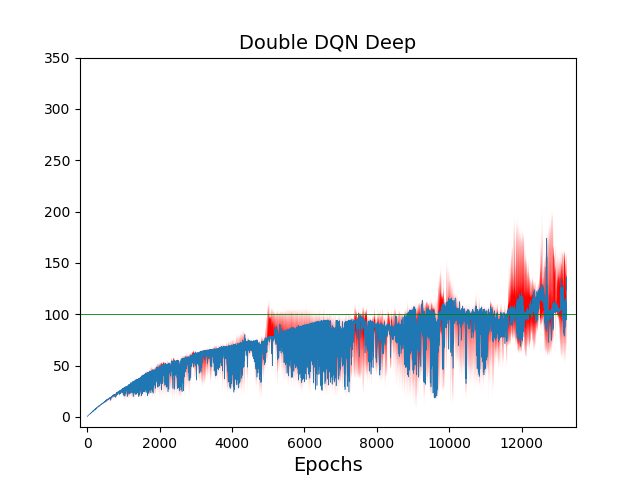
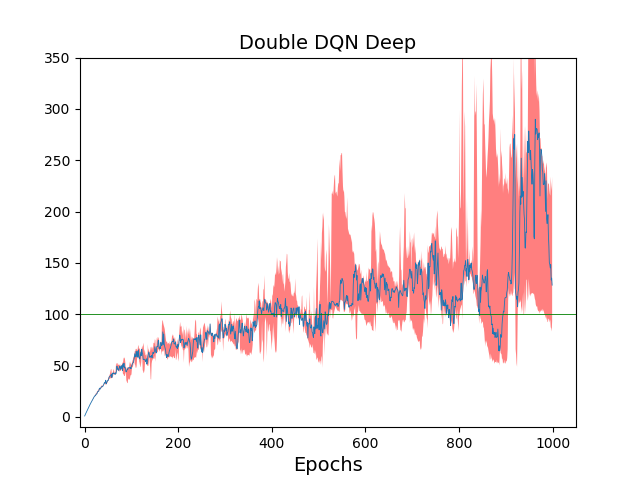
Fixes from review

diff --git a/sections/background.tex b/sections/background.tex
@@ -6,7 +6,7 @@ Markov Decision Process (MDP) formalism. A MDP is a tupla $\langle \mathcal{S},
 \mathcal{A}, \mathcal{P}, \mathcal{R}, \gamma \rangle$ where $\mathcal{S}$ is
 the set of states, $\mathcal{A}$ is the set of actions, $\mathcal{P}$ is the 
 state transition probability, $\mathcal{R}$ is the reward function and 
-$\gamma \in [0,1]$ is the discount factor determining the agent's horizon. A low $\gamma$ value means an agent that prefer the present rewards while an high $\gamma$ value mean an agent that prefer the future reward.
+$\gamma \in [0,1]$ is the discount factor determining the agent's horizon. A low $\gamma$ value means an agent that prefer the present reward while an high $\gamma$ value mean an agent that prefer the future reward.
 
 The main goal of an agent in RL is to interact with the environment maximizing the future rewards. In order to do this it estimates the action value function $Q$ that computes how much expected return comes from a state $s$ given an action $a$: $Q^*(s, a) = \max_\pi E[ G_t | s_t = s, a_t = a, \pi]$ where $\pi$ is a policy, a function that maps states to actions and $G_t = R_t + \gamma~R_{t+1} + \gamma^2~R_{t+2} + \dots$ is the discounted return.
 
@@ -16,13 +16,13 @@ Unluckily in a real context the MDP is unknown or its representation is too big
 
 \subsection{Q-learning}
 
-One method that tackles the previous issue is the \textbf{Q-learning} algorithm: a form of \textit{temporal difference learning} \cite{Sutton:1998:IRL:551283}
+One method that tackles the previous issue is the \textbf{Q-learning} algorithm: a form of \textit{temporal difference learning} \cite{Sutton:1998:IRL:551283}.
 
-Q-learning is defined as a \textit{model-free} \textit{off-policy} method \cite{Watkins1992}. \textit{Off-policy} means that the Q-learning learns using two policy. The first one is the target policy $\pi$, that follows the \textit{greedy} strategy $a = \max_a Q(s, a; \theta)$, that is selecting always the action that will return the maximum reward.
-The second one is the \textit{behavior policy} $\mu$ that ensures an exploration of the states space, typically an \textit{$\epsilon$-greedy} strategy. \textit{$\epsilon$-greedy} with probability $1 - \epsilon$ is a greedy strategy while with probability $\epsilon$ it selects a random action.
+Q-learning is defined as a \textit{model-free} \textit{off-policy} method \cite{Watkins1992}. \textit{Off-policy} means that the Q-learning learns using two policies. The first one is the target policy $\pi$, that follows the \textit{greedy} strategy $a = \max_a Q(s, a; \theta)$, that means selecting always the action that will return the maximum reward.
+The second one is the \textit{behavior policy} $\mu$ that ensures an exploration of the states space, typically an \textit{$\epsilon$-greedy} strategy. \textit{$\epsilon$-greedy} with probability $1 - \epsilon$ is a \textit{greedy} strategy while with probability $\epsilon$ it selects a random action.
 
-The Q-learning first initialize arbitrarily the $Q(s,a)$ except for the terminal state where $Q$ is initialized to 0.
-The agent from the initial state $S_0$ starts the iteration identified by a step $t$. Inside this loop the agent choose an action $A_t$ from $S_t$ (current state) using the \textit{behavior policy}. Then it takes the action $A_t$ and observe from the environment the immediate reward $R_{t+1}$ and the resulting state $S_{t+1}$ with which it estimates the action-value function through the following update rule:
+The Q-learning first initializes arbitrarily the $Q(s,a)$ except for the terminal state where $Q$ is initialized to 0.
+The agent from the initial state $S_0$ starts the iteration identified by a step $t$. Inside this loop the agent choose an action $A_t$ from $S_t$ (current state) using the \textit{behavior policy}. Then it takes the action $A_t$ and observes from the environment the immediate reward $R_{t+1}$ and the resulting state $S_{t+1}$ with which it estimates the action-value function through the following update rule:
 \begin{equation}
 	Q(S_t, A_t) = Q(S_t, A_t) + \alpha (Y^Q_t - Q(S_t, A_t))
 \end{equation}
@@ -59,18 +59,18 @@ In the \textit{Playing Atari with Deep Reinforcement Learning}~\cite{DBLP:journa
 
 DQN is a multi-layered Convolution Neural Network $Q(s, \cdotp; \theta)$ where $\theta$ are the parameters, that approximates the action-value function $Q$. It takes a 84x84x4 of the last four gray-scale frames as input representing the state $s$, and it outputs one predicted $Q$-value for each valid action.  
 %L'ARCHITETTURA % 
-The first convolutional layer used 32 filters of size 8 and stride 4, the second layer has 64 filter of size 4 and stride 2, the final convolutional layer has 64 filters of size 3 and stride 1. Follow a fully-connected layer of 512 units. All layers are separated by Rectifier Linear Units (ReLU). Finally a fully connected linear layer outputs the Q-values vector of $|\mathcal{A}|$ dimension, the cardinality of the action space.
+The first convolutional layer used 32 filters of size 8 and stride 4, the second layer has 64 filters of size 4 and stride 2, the final convolutional layer has 64 filters of size 3 and stride 1. Follow a fully-connected layer of 512 units. All layers are separated by Rectifier Linear Units (ReLU). Finally a fully connected linear layer outputs the Q-values vector of $|\mathcal{A}|$ dimension, the cardinality of the action space.
 
 As the Q-learning, DQN algorithm applies \textit{greedy} as target policy and \textit{$\epsilon$-greedy} as behaviour policy. Initially the parameter $\epsilon$ is set to 1 and it linearly decreases at each step to the minimum 0.1. The main hyperparameters are showed in Table~\ref{fig:dqn-hyperparams}.
 
 %(What were the general issues?)
 %(How do they solve them?)
-One important issue faced is that the agent has to learn from noisy data highly correlate. In order to break these correlations they successfully applied the \textit{experience replay} technique~\cite{Lin:1992:RLR:168871}. It consists in building a data-set of samples, the \textit{replay memory} ($D$), in which at each step the algorithm stores a new sample $e_t = (s_t, a_t, r_{t+1}, s_{t+1})$ overwriting the most old one. Next the algorithm applies the Q-learning update on samples of experience $(S_t, A_t, R_{t+1}, S_{t+1}) \sim U(D)$ taken uniformly at random from this memory. The Q-learning update at step $t$ uses the following loss:
+One important issue faced is that the agent has to learn from noisy data highly correlated. In order to break these correlations they successfully applied the \textit{experience replay} technique~\cite{Lin:1992:RLR:168871}. It consists in building a data-set of samples, the \textit{replay memory} ($D$), in which at each step the algorithm stores a new sample $e_t = (s_t, a_t, r_{t+1}, s_{t+1})$ overwriting the most old one. Next the algorithm applies the Q-learning update on samples of experience $(S_t, A_t, R_{t+1}, S_{t+1}) \sim U(D)$ taken uniformly at random from this memory. The Q-learning update at step $t$ uses the following loss:
 \begin{equation}
 	L_t(\theta_t) = E_{e_t \sim U(D)} % 
 		\Big[ \Big( Y^{DQN_1}_t - Q(S_t, A_t;\theta_t) \Big)^2 \Big]
 \end{equation}
-With the target define as:
+With the target defined as:
 \begin{equation}
 Y^{DQN_1}_t \equiv R_{t+1} + \gamma \max_{a} Q(S_{t+1}, a; \theta_t)
 \end{equation}
@@ -98,16 +98,16 @@ Y^{DQN_2}_t \equiv R_{t+1} + \gamma \max_{a} Q(S_{t+1}, a; \theta_t')
 \subsection{Double Q-learning}
 \label{subsec:DoubleQlearning}
 
-It is known that Q-learning overestimates the action-value function~\cite{NIPS2010_3964}. This is caused by the approximation of the maximal estimator $\max_a Q(S_{t+1}, a)$ that is a bias estimator of $max_a E \{ Q(S_{t+1}, a) \}$, this bias is cumulative at each update. In order to remove this effect the \textbf{Double Q-learning} algorithm was proposed~\cite{NIPS2010_3964}.
+It is known that Q-learning overestimates the action-value function~\cite{NIPS2010_3964}. This is caused by the approximation of the maximal estimator $\max_a Q(S_{t+1}, a)$ that is a bias estimator of $max_a E \{ Q(S_{t+1}, a) \}$. This bias is cumulative at each update. In order to remove this effect the \textbf{Double Q-learning} algorithm was proposed~\cite{NIPS2010_3964}.
 
-The main idea of Double Q-learning is to use a double estimator: keeping two action-value function $Q^A$ and $Q^B$. At each step only one of the two functions is updated and in the update instead of using the $Q^A(S{t+1}, a^*) = \max_a Q(S_{t+1}, a)$ where $a^* = \max_a Q^A(S_{t+1}, a)$ it is used $Q^B(S_{t+1}, a^*)$.
+The main idea of Double Q-learning is to use a double estimator: keeping two action-value function $Q^A$ and $Q^B$. At each step only one of the two functions is updated: instead of using $Q^A(S{t+1}, a^*) = \max_a Q(S_{t+1}, a)$ where $a^* = \max_a Q^A(S_{t+1}, a)$ in the update, it is used $Q^B(S_{t+1}, a^*)$.
 Van Hasselt (2010) proved mathematically and in small environments that the Double Q-learning is more accurate than Q-learning and sometimes underestimate.
 \
 \subsection{Double Deep Q Network Algorithm}
 
 % What did the authors demontrate?
 %(What were the general issues?)
-\textit{Deep Reinforcement Learning with Double Q-learning}~\cite{Hasselt:2016:DRL:3016100.3016191} showed that DQN algorithm suffers from overestimations impacting negatively on the quality of the policy learned. They demonstrate that estimation errors of any kind can induce an upward bias driving the estimate up and away from the true optimal value.
+\textit{Deep Reinforcement Learning with Double Q-learning}~\cite{Hasselt:2016:DRL:3016100.3016191} showed that DQN algorithm suffers from overestimations impacting negatively on the quality of the policy learned. They demonstrate that any kind of estimation errors can induce an upward bias driving the estimate up and away from the true optimal value.
 
 % How did they enhanced the algorithm?
 In order to reduce this overestimation \citeauthor{Hasselt:2016:DRL:3016100.3016191} \shortcite{Hasselt:2016:DRL:3016100.3016191} proposed the \textbf{Double Deep Q Network} (\textbf{DDQN}), a DQN adaptation that implements the idea of the Double Q-learning. The only change from the previous DQN~\cite{Mnih2015} was the target $Y_t^{DQN_2}$ replaced with:

diff --git a/sections/results.tex b/sections/results.tex
@@ -4,10 +4,12 @@
 
 % Arguments:
 
-Figure~\ref{fig:q-values} shows the different performances from the 4 configuration. In order to reduce the noise of the Q-value estimates, as the cited papers did, during the training \auth~take the averages of the Q-values from \numepoch~steps, defined as \textit{epoch}. More epochs computed by a configuration implies more steps per episode and then more reward in general. Hence the \textit{deep} configurations played better than the \textit{shallow}. More details in the evaluation subsection.
+Figure~\ref{fig:q-values} shows the different performances from the 4 configurations. In order to reduce the noise of the Q-value estimates, as the cited papers did, during the training \auth~take the averages of the Q-values from \numepoch~steps, defined as \textit{epoch}. %More epochs computed by a configuration implies more steps per episode and then more reward in general. Hence the \textit{deep} configurations played better than the \textit{shallow}. More details in the evaluation subsection.
 
-A more interesting viewpoint is the overestimation issue. If the reward is nonzero and $\gamma < 1$ as in the \textit{CartPole} environment the return $G_t$ is $\frac{1}{1 - \gamma}$ \cite{Sutton:1998:IRL:551283}. Hence in our case the return with $\gamma = 0.99$ is $100$ then the DQN has to converge to that value.
-Figure~\ref{fig:q-values} shows that the trends of all the configuration is to converge to 100. As described by \citeauthor{Hasselt:2016:DRL:3016100.3016191} \shortcite{Hasselt:2016:DRL:3016100.3016191} the Double Q-learning reduces the overestimation, in particular for the \textit{Double DQN deep} configuration, the \textit{DQN deep} suffers definitely of overestimation. For \textit{DQN shallow} configurations instead the differences are small, maybe the differences could start in later epochs.
+An interesting viewpoint is the overestimation issue. If the reward is nonzero and $\gamma < 1$ as in the \textit{CartPole} environment the return $G_t$ is $\frac{1}{1 - \gamma}$ \cite{Sutton:1998:IRL:551283}. Hence in \authpp~case the return with $\gamma = 0.99$ is $100$ then the DQN has to converge to that value.
+Figure~\ref{fig:q-values} shows that the \textit{shallow} configurations converge to 100. Instead the \textit{deep} configurations after about 400 epochs started to oscillate and to overestimate the true return. \Auth~think the \textit{deep} configurations failed to generalize (overfitting).
+
+In spite of the expectation the Double Q-learning did not reduce significantly the overestimation, the differences between the \textit{shallow} configurations are minimal. Both the \textit{deep} configurations suffer of overestimation, in particular in the last epochs.
 
 \begin{figure*}[]
 	\centering
@@ -20,7 +22,8 @@ Figure~\ref{fig:q-values} shows that the trends of all the configuration is to c
 	%{\includegraphics[width=.45\textwidth]{Cascata}} \quad
 	%\subfloat[][\emph{Salita e discesa}.]
 	%{\includegraphics[width=.45\textwidth]{SalitaDiscesa}}
-	\caption{The plots shows the Q-value estimates performance for each configuration running for 3600 episodes. Each episode performs every step depending on the good or bad interaction of the agent. This means that some agent finished in less steps. Each point on the blue lines is the median Q-value per epoch (the average Q-value computed every \numepoch~steps) of 3 executions with different seed. The red area shows the maximum and minimum Q-value per epoch of 3 executions with different seed.}
+	\caption{The plots shows the Q-value estimates performance for each configuration running for about 1 Million of steps. %Each episode performs every step depending on the good or bad interaction of the agent. This means that some agent finished in less steps.% 
+	Each point on the blue lines is the median Q-value per epoch (the average Q-value computed every \numepoch~steps) of 3 executions with different seed. The red area shows the maximum and minimum Q-value per epoch of 3 executions with different seed.}
 	\label{fig:q-values}
 \end{figure*}
 
@@ -28,16 +31,16 @@ Figure~\ref{fig:q-values} shows that the trends of all the configuration is to c
 \subsection{Evaluation}
 
 % Theses:
-The results of evaluation (Figure~\ref{fig:comparison}) of the model show that \textit{double} and \textit{deep} settings have the better results. The learning agents, after 1000 episodes are able to \textit{solve} the \textit{CartPole} problem. It is a good result considering that the algorithm hyperparameters were not tuned. Notice that \auth~consider the best model from 3 run with different seed. 
+The results of evaluation (Figure~\ref{fig:comparison}) of the model show that the \textit{double} configurations have better results in terms of number of episodes necessary to solve the \textit{CartPole} problem. The DDQN shallow and DDQN deep configurations obtained after 200 and 300 episodes are able to \textit{solve} the \textit{CartPole} problem. It is a good result considering that the algorithm hyperparameters were not tuned. Notice that \auth~consider the best model from 3 run with different seed. 
 
 \begin{figure}[t]
 	\centering
-	\includegraphics[width=0.48\textwidth]{res/Comparison}
+	\includegraphics[width=0.46\textwidth]{res/Comparison}
 	\caption{Number of episodes necessary to solve the \textit{CartPole} problem for each configuration. The value is selected from the best runs.}
 	\label{fig:comparison}
 \end{figure}
 
-In fact from the Table~\ref{tab:comparison_table} emerges that a different seed could imply a good or a bad learning process. The \textit{DQN shallow} configuration showed that for the best seed it needs 1300 episode in order to solve the problem while with the seed 52 it needs 2000 episode. This is caused from a great component of randomness in the DQN algorithm: the probability involves in \textit{$\epsilon$-greedy}, the random selection of mini-batches from the \textit{experience replay} dataset, the random initialization of the parameter of the Q network and the randomness in the environment.
+In fact from the Table~\ref{tab:comparison_table} emerges that a different seed could imply a good or a bad learning process. The \textit{DQN shallow} configuration showed that for the best seed it needs 400 episodes in order to solve the problem while with the seed 52 it needs 1700 episodes. Probably this is caused by a great component of randomness in the DQN algorithm: the probability involves in \textit{$\epsilon$-greedy}, the random selection of mini-batches from the \textit{experience replay} dataset, the random initialization of the parameter of the Q-network and the randomness in the environment.
 
 \begin{table}
 	\centering
@@ -45,21 +48,21 @@ In fact from the Table~\ref{tab:comparison_table} emerges that a different seed 
 		\hline
 		\textbf{Configuration} & \textbf{Seed} & \textbf{Good models} & \textbf{Solved (Ep.)} \\
 		\hline
-			 & 32 & 10 / 35 & 1000 \\
-		DDQN & 42 & 6 / 35 & 1500 \\
-			 & 52 & 6 / 35 & 1000 \\
+			 & 32 & 13 / 83 & 300 \\
+		DDQN shallow & 16 & 83 / 83 & 600 \\
+			 & 52 & 16 / 83 & 300 \\
 		\hline
-		 		& 32 & 13 / 35 & 1000 \\
-		DDQN deep  & 42 & 10 / 35 & 1000 \\
-				  & 52 & 12 / 35 & 1200 \\
+		 		& 32 & 21 / 83 & 400 \\
+		DDQN deep  & 42 & 20 / 83 & 200 \\
+				  & 52 & 17 / 83 & 200 \\
 		\hline
-			& 32 & 5 / 35 & 1700 \\
-		DQN	& 42 & 3 / 35 & 1300 \\
-			& 52 & 5 / 35 & 2000 \\
+					& 32 & 26 / 83 & 400 \\
+		DQN	shallow & 42 & 18 / 83 & 1000 \\
+					& 52 & 16 / 83 & 1700 \\
 		\hline
-				 & 32 & 12 / 35 & 1000 \\
-		DQN deep & 42 & 11 / 35 & 1000 \\
-				 & 52 & 6 / 35 & 1300 \\
+				 & 32 & 20 / 83 & 500 \\
+		DQN deep & 42 & 21 / 83 & 1000 \\
+				 & 52 & 25 / 83 & 400 \\
 		\hline
 	\end{tabular}
 	\caption{Results from evaluation. For each configuration with a seed, a model every 100 episode was evaluated. Good models represent the number of models that solved the \textit{CartPole} problem. Solved column shows the number of episodes necessary for obtaining the first good model.}

diff --git a/sections/experiments.tex b/sections/experiments.tex
@@ -4,7 +4,7 @@
 \Authpp~testbed is done in the \textit{CartPole-v0} environment available in the Gym toolkit \cite{Gym}.
 In this toy problem a pole is attached by an un-actuated joint to a cart, which moves along a frictionless track. The pendulum starts upright, and the goal is to prevent it from falling over by increasing and reducing the cart's velocity. It was invented for having pseudo-standard benchmark problem from the field of control theory and artificial neural networks for designing and testing controllers on complex and unstable non-linear system.
 
-From documentation the problem is defined as \textit{solved} if the agent get average reward of 195.0 over 100 consecutive trials. \Auth~used this as a parameter for evaluating our trained models.
+From documentation the problem is defined as \textit{solved} if the agent get average reward of 195.0 over 100 consecutive trials. \Auth~used this as a parameter for evaluating the trained models.
  
 \subsubsection{States space}
 A state of the agent is described through a vector of 4 features: the  \textit{Cart Position}, \textit{Cart Velocity}, \textit{Pole Angle} and \textit{Pole Velocity At Tip} (which can be interpreted on how fast the pole is falling) .
@@ -23,13 +23,13 @@ The reward is 1 for every step taken, including the termination step. Since the 
 \subsection{Neural Network Architecture}
 
 After some preliminary tests \auth~end up with two different architectures for the Deep Q Network: the most simple consists of an input layer of 4 units, the state features, a single fully connected hidden layer of 64 units (\textit{DQN Shallow}) with ReLU as activation function and two units, the possible actions, for the output layer. The second one is the previous network but with an additional hidden layer of 32 units with ReLU as activation function before the output layer (\textit{DQN deep}). %The third configuration keeps the input and output layers of the first one, between them there are three fully connected hidden layers of 32, 16 and 8 units respectively \textit{(DQN more deep)}. 
-These architecture were created for comparing the difference between deep and shallow neural networks.
+These architectures were created for comparing the difference between deep and shallow neural networks.
 
 \subsection{General Settings}
 
-For the settings of the DQN \auth~started from the hyper-parameters used by \citeauthor{Hasselt:2016:DRL:3016100.3016191} \shortcite{Hasselt:2016:DRL:3016100.3016191}. Since the smaller complexity of the \textit{CartPole} environment and our limited hardware resources, \auth~set the \textit{experience replay} dataset size to 10000 instead of 1 Million and \auth~updated the target network parameters every 1000 steps ($\tau = 1000$). As loss function \auth~used \textit{Mean Squared Error} minimized using the RMSprop optimizer with mini-batches of sizes 32.
+For the settings of the DQN \auth~started from the hyper-parameters used by \citeauthor{Hasselt:2016:DRL:3016100.3016191} \shortcite{Hasselt:2016:DRL:3016100.3016191}. Since the smaller complexity of the \textit{CartPole} environment and \authpp~limited hardware resources, \auth~set the \textit{experience replay} dataset size to 10000 instead of 1 Million and \auth~set the update of the target network parameters every 1000 steps ($\tau = 1000$). As loss function \auth~used \textit{Mean Squared Error} minimized using the RMSprop optimizer with mini-batches of sizes 32.
 
-Each agent runs the training for a total of 3600 episodes using \textit{$\epsilon$-greedy} with $\epsilon$ initialized to 1 decreasing linearly for 10.000 steps and then fixed at 0.01 for all the next steps.
+Each agent runs the training for a total of 1024000 steps using \textit{$\epsilon$-greedy} with $\epsilon$ initialized to 1 decreasing linearly for 10000 steps and then fixed at 0.01 for all the next steps.
 
 \Auth~trained different agents with the DQN algorithm \cite{Mnih2015} and the Double DQN algorithm \cite{Hasselt:2016:DRL:3016100.3016191}.
 
@@ -58,15 +58,15 @@ Each agent runs the training for a total of 3600 episodes using \textit{$\epsilo
 
 \subsection{Configurations}
 
-\Auth~built 4 configuration that are all the combinations of neural network architectures and DQN algorithms, they are: \textit{DQN shallow} (also referred to as DQN), \textit{DQN deep}, \textit{Double DQN shallow} (DDQN) and \textit{Double DQN deep}. Each of them has set the hyper-parameters shown in the Table~\ref{tab:my-hyperparams}.
+\Auth~built 4 configurations that are all the combinations of neural network architectures and DQN algorithms, they are: \textit{DQN shallow} (also referred to as DQN), \textit{DQN deep}, \textit{Double DQN shallow} (DDQN) and \textit{Double DQN deep}. Each of them has set the hyper-parameters shown in the Table~\ref{tab:my-hyperparams}.
 
-Aware that more runs are required, especially in the reinforcement learning field \cite{DBLP:journals/corr/abs-1709-06560}, \auth~tested the configurations with 3 different seeds (32, 42 and 52) for randomness involve in the algorithm, for a total of 12 runs.
+Aware that more runs are required, especially in the reinforcement learning field \cite{DBLP:journals/corr/abs-1709-06560}, \auth~tested the configurations with 3 different seeds (32, 42 and 52), for randomness involved in the algorithm, for a total of 12 runs.
 
 % Comparing seed and stochasticity
 
 \subsection{Evaluation Settings}
 
-Every 100 episodes of an execution the algorithm saved a model of the neural network, since an execution run for 3600 episodes, the outcomes obtained are 35 models for each configuration. Every model is evaluated in an agent without Q-learning for 100 episodes. During the evaluation \auth~measured the average reward in the 100 episodes.
+An \textit{episode} is defined as the steps from initial state to terminal state. Every 100 episodes of an execution, the algorithm saved a model of the neural network, since an execution run for about 1 Milion steps, the resulting models for each configuration vary. Every model is evaluated in an agent without Q-learning for 100 episodes. During the evaluation \auth~measured the average reward in the 100 episodes.
 
 \subsection{Technologies}
 The code\footnote{DQN-in-CartPole GitHub repository: \url{https://github.com/EduBic/DQN-in-CartPole}} is written in Python 3, with the use of NumPy and Keras library on top of Tensorflow.

diff --git a/sections/intro.tex b/sections/intro.tex
@@ -2,14 +2,14 @@
 
 In the last decade Reinforcement Learning (RL) is attracting more and more interest of machine learning and artificial intelligence communities.
 
-The main objective of the RL research is developing agents which should be able to choose the actions maximizing the total reward given the current state of the environment in which it is located and nothing else.
+The main objective of the RL research is developing agents which should be able to choose the actions maximizing the total reward, given only the current state of the environment in which it is located.
 
-More recently, with the leveraging on the rapid growth in the amount of the annotated data and the great improvements in the strengths of graphics processor units, the research in Deep Learning (DL) has been emerged and led to very good performance on a variety of problems, such as visual recognition, speech recognition and natural language processing \cite{AdvancesCNN}.
+More recently, with the leveraging on the rapid growth in the amount of the annotated data and the great improvements in the strengths of graphics processor units, the research in Deep Learning (DL) has been emerged and led to very good performance on a variety of problems, such as Visual Recognition, Speech Recognition and Natural Language Processing \cite{AdvancesCNN}.
 
-Deep Learning in addition to Reinforcement Learning enabling to scale problems considered previously intractable. Some of the most amazing results have been obtained by Google’s DeepMind, who has trained agents capable to defeat Go champion, Le Sedol, in march 2016, four games to one, or able to achieve the performance of expert humans in playing numerous Atari video games learning directly from pixels. Also OpenAI obtained a great success with his bot that has beaten the world's top professionals at 1v1 matches of Dota 2 under standard tournament rules, after learning the rules of the game from scratch by self-play.
+Deep Learning in addition to Reinforcement Learning enables to scale problems considered previously intractable. Some of the most amazing results have been obtained by Google’s DeepMind that has trained agents capable to defeat Go champion, Le Sedol, in march 2016, four games to one, or able to achieve the performance of expert humans in playing numerous Atari video games learning directly from pixels. Also OpenAI obtained a great success with its bot that has beaten the world's top professionals at 1v1 matches of Dota 2 under standard tournament rules, after learning the rules of the game from scratch by self-play.
 
 In order to increase the community around RL OpenAI released Gym toolkit \cite{Gym}, a collection of test problems designed for testing and developing reinforcement learning algorithms, including 57 games of Atari 2600 and the MuJoCo physics engine, where simulated robot agents can be controlled by the position and velocity of each joint. 
 
 The goal of this work is firstly to understand the DQN algorithm issues and the solution adopted, secondly to implement the DQN algorithm comparing the first version with the Double DQN version. Following initially the experiments performed in Atari environment, specifically the Pong game. \Auth~soon clashed with computational and time limits due to the huge number of parameters of network and memory required. In short, for replicate the experiments cited \auth~would have required weeks of computation time and a GPU with more than 8 Gigabytes of memory. \Auth~have therefore chosen to analyze a relatively simpler problem: the \textit{CartPole}, provided by Gym.\\
 
-This paper is organized as follows: the Background section presents an overview of the deep reinforcement learning methods. The Experiments section introduces the environment and the task of the \textit{CartPole} problem while the Results Discussion section contains an analysis of the experiments results. In Future Work, \auth~propose some of the possible interesting changes on our experiments settings. Finally, the Conclusion containing our thoughts about Deep Reinforcement Learning after this exploration work.
+This paper is organized as follows: the Background section presents an overview of the deep reinforcement learning methods. The Experiments section introduces the environment and the task of the \textit{CartPole} problem while the Results Discussion section contains an analysis of the experiments results. In Future Work, \auth~propose some of the possible interesting changes on the experiments settings. Finally, the Conclusion containing \authpp~thoughts about Deep Reinforcement Learning after this exploration work.

diff --git a/sections/future.tex b/sections/future.tex
@@ -5,7 +5,7 @@
 
 The used environment of the \textit{CartPole} limits the steps to 200 for each episode. It might be interesting to perform the same experiments on the same environment with no step limits.
 
-\Auth~observed that several trained agents were able to successfully solving the task. Many of them get the maximum reward mostly pushing to one side the cart, unaware of the boundaries of the environment that are terminal states, that means less reward in the future. In a continuous environment this behaviour will leads to a bad episode encouraging the Q-learning to learn a smarter policy.
+\Auth~observed that several trained agents are able to successfully solving the task. Many of them get the maximum reward mostly pushing to one side the cart, unaware of the boundaries of the environment that are terminal states, that means less reward in the future. In a continuous environment this behaviour will leads to a bad episode encouraging the Q-learning to learn a smarter policy.
 
 \subsection{Reward function redesign}
 
@@ -13,4 +13,4 @@ Another interesting possible solution to limit the suicidal behaviour towards th
 
 \subsection{Longer Time Execution}
 
-\Authpp~tests is obviously limited. The cited references for DQN and Double DQN executed for a total of 200 Million of frames, that is 50 Million of steps, while the maximum reached by our tests was 896000. Increasing the number of episodes and therefore the number of steps could show better the behaviour of the Q-value in \textit{CartPole} environment.
+\Authpp~tests is obviously limited. The cited references for DQN and Double DQN executed for a total of 200 Million of frames, that is 50 Million of steps, while the maximum reached by \authpp~tests was 896000. Increasing the number of episodes and therefore the number of steps could show better the behaviour of the Q-value in \textit{CartPole} environment.

diff --git a/sections/conclusions.tex b/sections/conclusions.tex
@@ -3,6 +3,6 @@
 \Auth~have presented how Q-learning, and successively Double Q-learning was combined with Deep Neural Network creating the DQN algorithm. 
 An algorithm that achieved state-of-the-art performance in the \textit{Atari Emulator Environment} and keeps improving with the contributes of deep reinforcement learning community~\cite{DBLP:journals/corr/abs-1710-02298}.
 
-\Auth~implemented the DQN algorithm and \auth~tried to explore its potential in the toy control environment \textit{CartPole}. Without the need of tuning \auth~showed that DQN was able to solve the problem with discrete results. \Auth~shows also that the introduction of the Double DQN improve a little the performance and comparing to DQN algorithm reduce the overestimation as \citeauthor{Hasselt:2016:DRL:3016100.3016191} \shortcite{Hasselt:2016:DRL:3016100.3016191} demonstrated.
+\Auth~implemented the DQN algorithm and \auth~tried to explore its potential in the toy control environment \textit{CartPole}. Without the need of tuning \auth~showed that DQN was able to solve the problem with discrete results. \Auth~showed also that the introduction of the Double DQN improves a bit the performance and comparing to DQN algorithm reduce the overestimation as \citeauthor{Hasselt:2016:DRL:3016100.3016191} \shortcite{Hasselt:2016:DRL:3016100.3016191} demonstrated.
 
 Despite the issues faced with data and debugging, with this experiment \auth~have seen how DQN algorithm can be considered a base for carrying on future researches in this area. 

diff --git a/sections/abstract.tex b/sections/abstract.tex
@@ -1,6 +1,6 @@
 \begin{abstract}
 
 In this work \auth~present an overview of a Deep Reinforcement Learning method using Q-learning that recently brought the state-of-the-art results in the Atari Emulator Environment. This method is called DQN algorithm that combines successfully a convolutional neural network with Q-learning. Successively it was improved with Double Q-learning and other valid techniques. 
-Attracted by this hot research area \auth~replicated the DQN algorithm and run it in the \textit{CartPole} environment, a famous toy control challenge that allowed \authp~to deal with the main issues related to the implementation of DQN. In this paper \auth~reported the results that \auth~obtained, our consideration on them and some personal thoughts about the Deep Reinforcement Learning field.
+Attracted by this hot research area \auth~implemented the DQN algorithm and run it in the \textit{CartPole} environment, a famous toy control challenge that allowed \authp~to deal with the main issues related to the implementation of DQN. In this paper \auth~reported the results that \auth~obtained, \authpp~consideration on them and some personal thoughts about the Deep Reinforcement Learning field.
 
 \end{abstract}

diff --git a/sections/issues.tex b/sections/issues.tex
@@ -1,7 +1,7 @@
 
 \section{Issues}
 
-\Auth~faced several issues. In particular after an initial effort for understanding the RL area, \auth~had difficulties on debugging and on interpreting the noisy Data, these are typical issues in Deep Reinforcement Learning area~\cite{rlblogpost}. In fact in order to see better the convergence \auth~have to take the average Q-value from \numepoch~steps.
+\Auth~faced several issues. In particular after an initial effort for understanding the RL area, \auth~had difficulties on debugging and on interpreting the noisy Data, these are typical issues in Deep Reinforcement Learning area~\cite{rlblogpost}. In fact in order to see better the convergence \auth~took the average Q-value from \numepoch~steps.
 
 Another issues is that there are no guarantees that in the next not computed steps the Q-value estimates will not have weird behaviours. An example is the bottom right plot in Figure~\ref{fig:q-values} where after 12000 epoch it seems like a bad behaviour is happening.
 

diff --git a/paper.tex b/paper.tex
@@ -19,7 +19,7 @@
 \newcommand{\authpp}{my}
 \newcommand{\Authpp}{My}
 
-\newcommand{\numepoch}{64}
+\newcommand{\numepoch}{1024}
   
 \begin{document}
 % The file aaai.sty is the style file for AAAI Press 
@@ -27,7 +27,7 @@
 %
 \title{Exploration and Evaluation of Deep Reinforcement Learning \\ in the CartPole environment}
 
-\author{Eduard Bicego \and Federico Ghirardelli\\\\
+\author{Eduard Bicego\\\\
 University of Padova - Department of Mathematics\\
 Via Trieste, 63, 35121 Padova - Italy\\
 }
